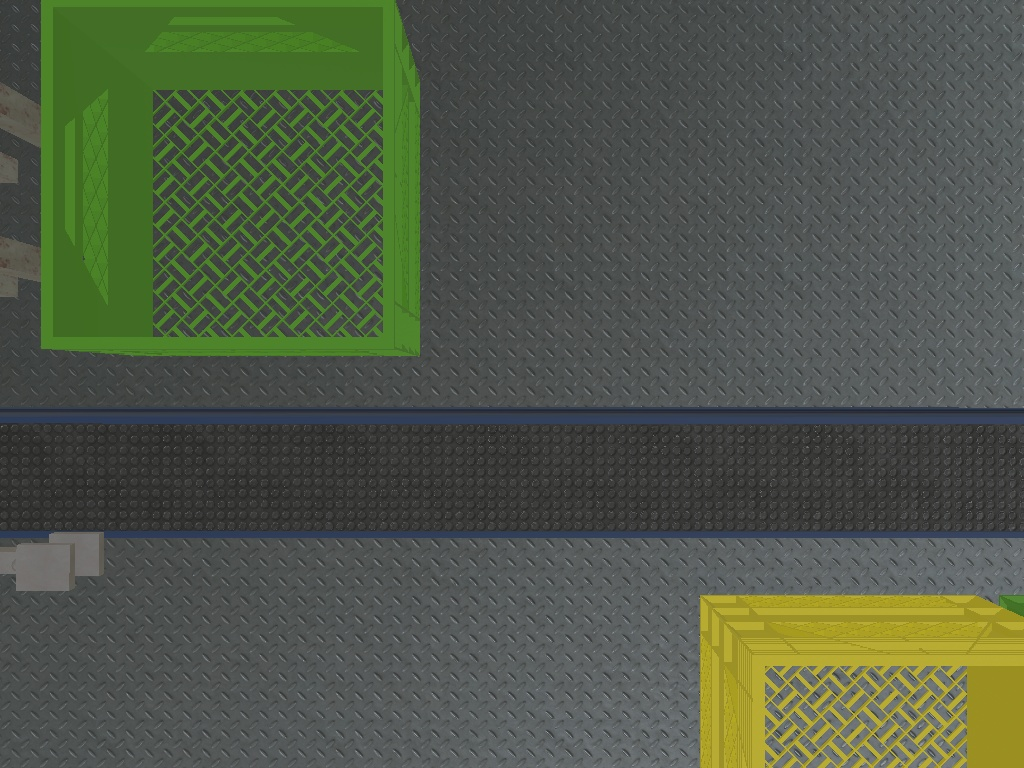
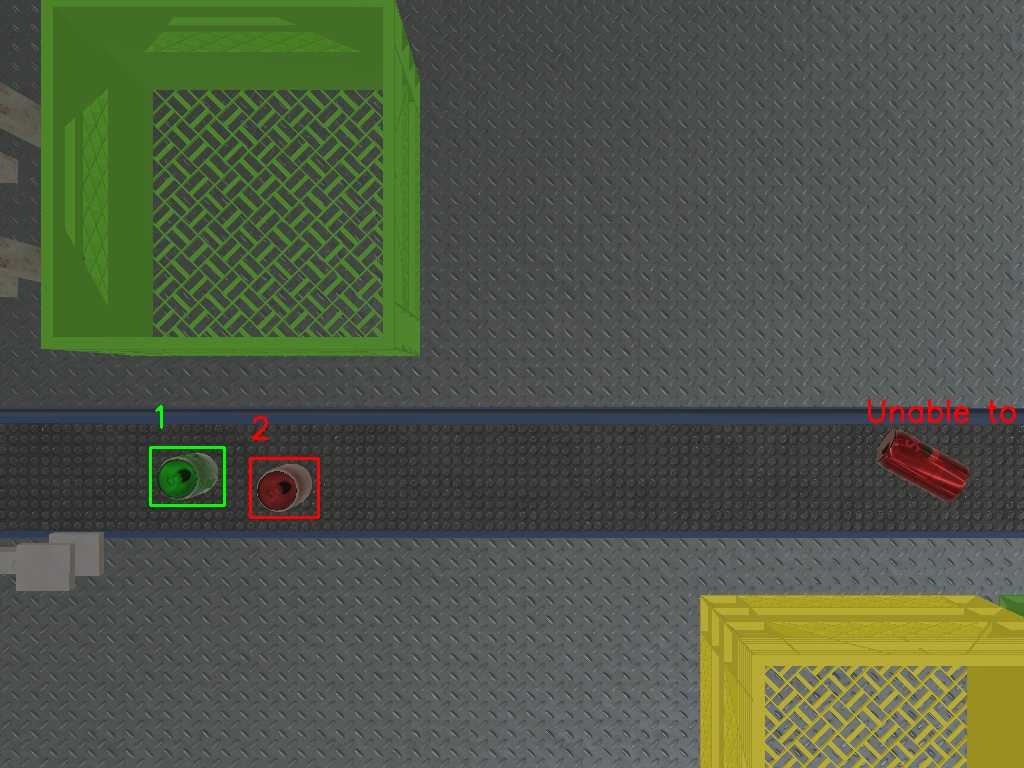
EDIT: Bug fix

Changed region(s): [[0.125, 0.5312, 0.3125, 0.6875], [0.8438, 0.5, 1.0, 0.6562]]

diff --git a/controllers/experiment/experiment.py b/controllers/experiment/experiment.py
@@ -59,15 +59,15 @@ def pickTargers(total_cans, choices=5):
         reason = ""
         candidates[key] = [val]
         candidates[key].append(supervisor.getFromId(key).getField("translation").getSFVec3f())
-        
-        if val in ["green", "red"]:
-            if abs(supervisor.getFromId(key).getField("rotation").getSFRotation()[3]) > 0.1:
-                reason += "graspError"
-            elif candidates[key][1][0] > 0.5:
-                top5_keys.append(key)
-                top5_dists.append(candidates[key][1][0])
-        else:
-            reason += "colorError"
+        if candidates[key][1][0] > 0.3:
+            if val in ["green", "red"]:
+                if abs(supervisor.getFromId(key).getField("rotation").getSFRotation()[3]) > 0.1:
+                    reason += "graspError"
+                else:
+                    top5_keys.append(key)
+                    top5_dists.append(candidates[key][1][0])
+            else:
+                reason += "colorError"
 
         candidates[key].append(reason)
     top5 = sorted(zip(top5_dists, top5_keys), key=lambda x: x[1])[:choices]
@@ -408,33 +408,33 @@ while supervisor.step(timestep) != -1:
     #      for i in range(len(joint_names)):
     #              motors[1].setPosition(-1)
          
-    if go_to_bucket == True and go_to_bucket2 == False and sensors[1].getValue()-0.2 < -1 < sensors[1].getValue()+0.2:
-                 go_to_bucket2 = True    
-                 go_to_bucket = False
+    # if go_to_bucket == True and go_to_bucket2 == False and sensors[1].getValue()-0.2 < -1 < sensors[1].getValue()+0.2:
+    #              go_to_bucket2 = True    
+    #              go_to_bucket = False
     
     
     
-    if go_to_bucket2 == True:
-          print(index)
-          go_to_bucket2 = False     
-          if total_cans[index] == "green":
-              for i in range(len(joint_names)):
-                      motors[0].setPosition(1.5)
-                      drop = True
+    # if go_to_bucket2 == True:
+    #       print(index)
+    #       go_to_bucket2 = False     
+    #       if total_cans[index] == "green":
+    #           for i in range(len(joint_names)):
+    #                   motors[0].setPosition(1.5)
+    #                   drop = True
 
-          elif total_cans[index] == "red":
-              for i in range(len(joint_names)):
-                      motors[0].setPosition(-1.8)
-                      drop = True
+    #       elif total_cans[index] == "red":
+    #           for i in range(len(joint_names)):
+    #                   motors[0].setPosition(-1.8)
+    #                   drop = True
 
     
          
-    if  drop == True and sensors[0].getValue()-0.01 < 1.5 < sensors[0].getValue()+0.01 or sensors[0].getValue()-0.01 < -1.8 < sensors[0].getValue()+0.01:
-        moveFingers(fingers, mode = "open") 
-        go_to_bucket2 == False
-        prepare_grasp = True
-        drop = False
-    if bool(total_cans): 
-         goal = supervisor.getFromId(index).getField("translation")
-         target = np.array(goal.getSFVec3f())          
+    # if  drop == True and sensors[0].getValue()-0.01 < 1.5 < sensors[0].getValue()+0.01 or sensors[0].getValue()-0.01 < -1.8 < sensors[0].getValue()+0.01:
+    #     moveFingers(fingers, mode = "open") 
+    #     go_to_bucket2 == False
+    #     prepare_grasp = True
+    #     drop = False
+    # if bool(total_cans): 
+    #      goal = supervisor.getFromId(index).getField("translation")
+    #      target = np.array(goal.getSFVec3f())          
     
